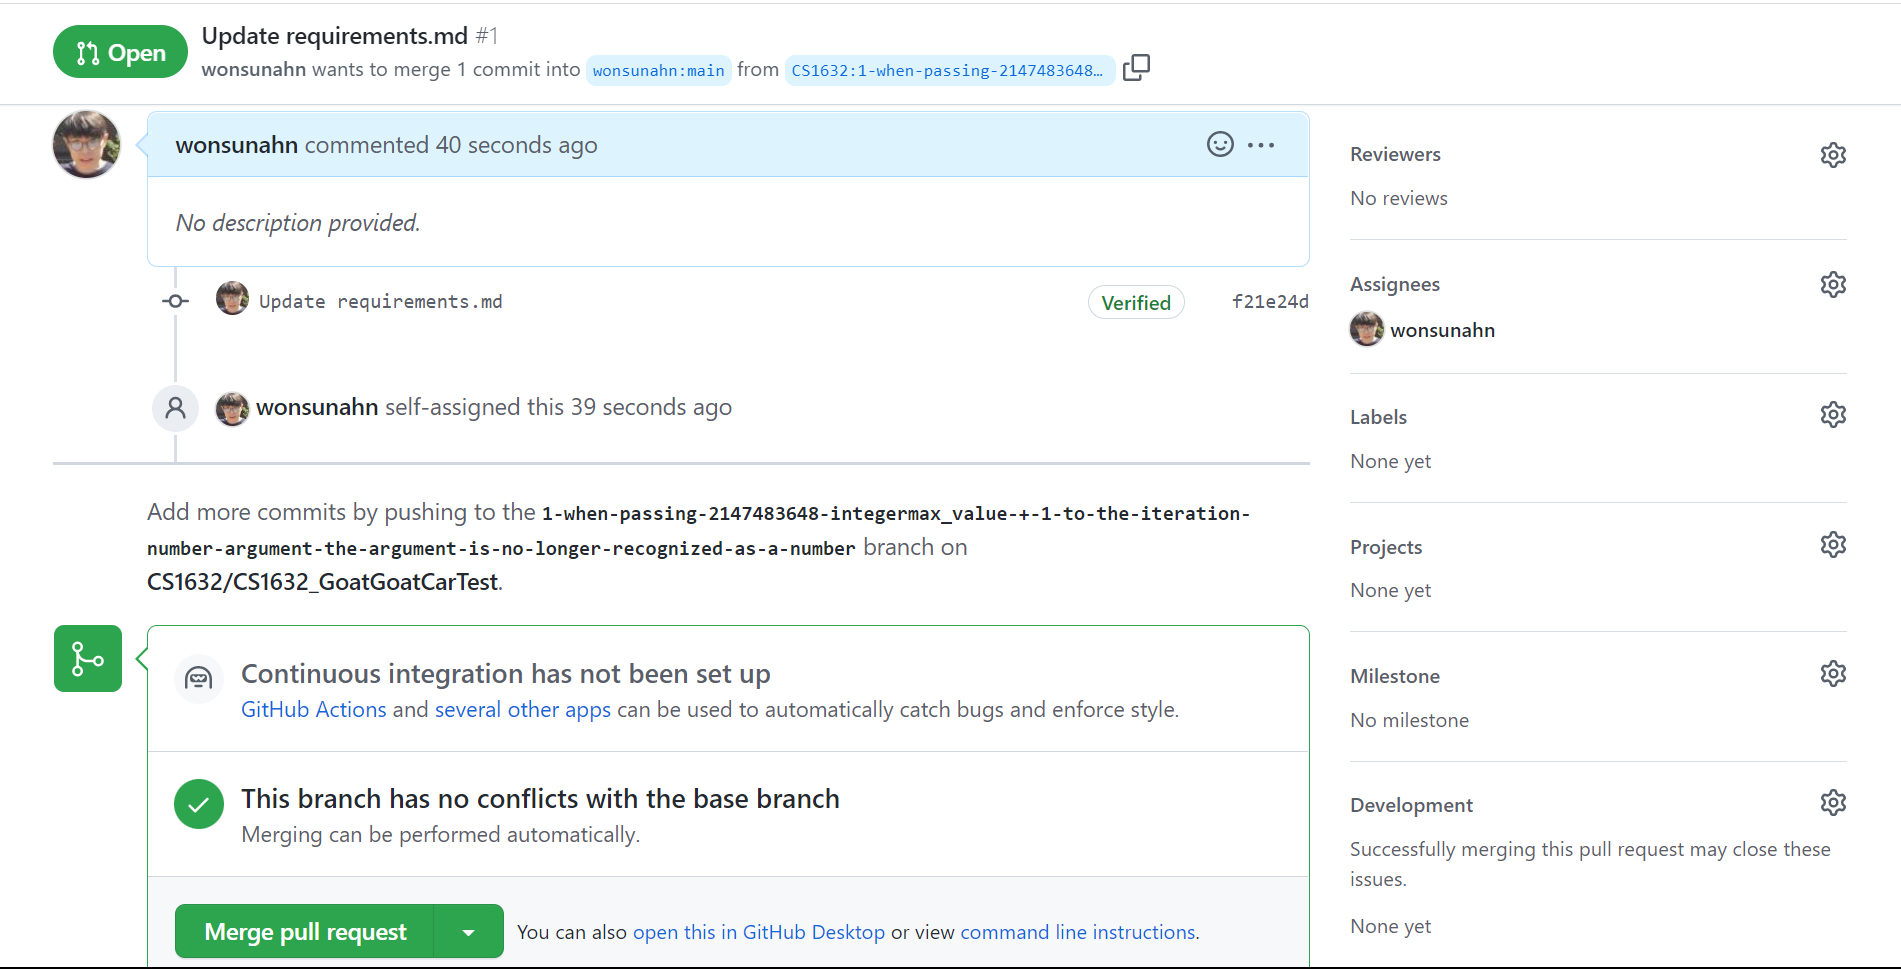
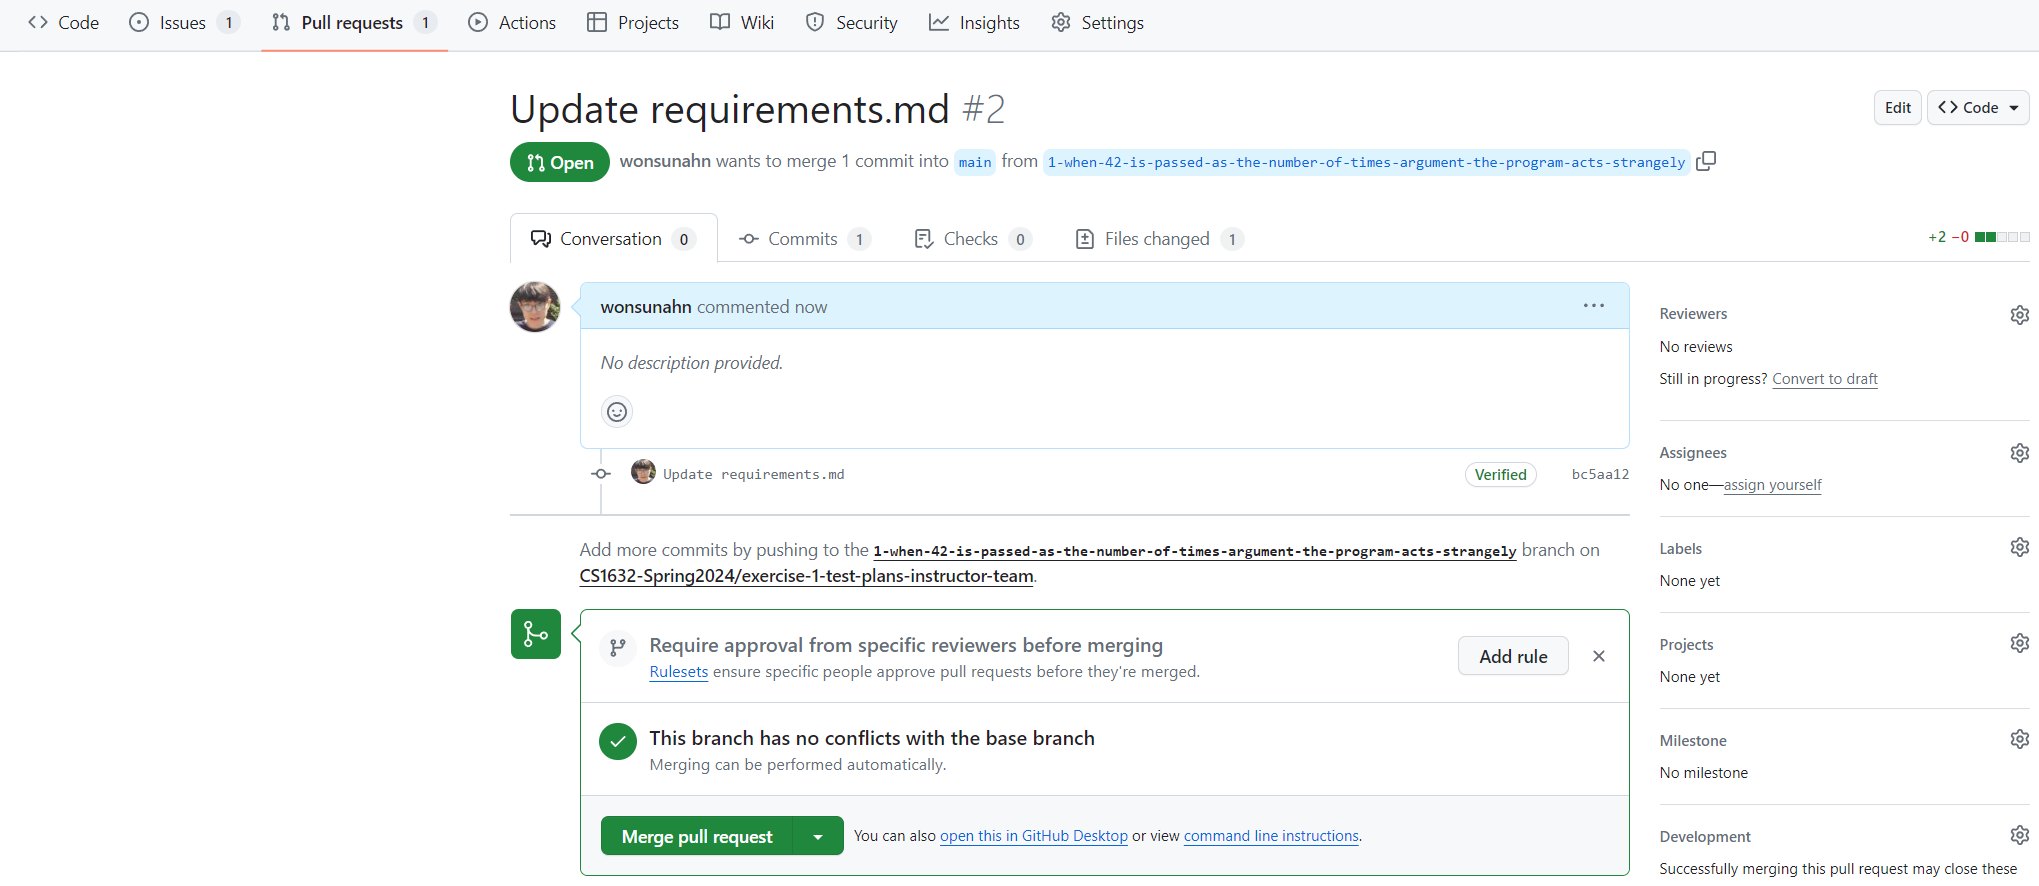
Updates to add pull requests

diff --git a/README.md b/README.md
@@ -173,6 +173,10 @@ no gaps in test coverage.  Please make sure of this.
 
 ## Reporting Defects
 
+Please find **at least three defects** and report them through the GitHub issues system.  
+
+### Components of a Defect Report
+
 This is the correct format for defects -
 
 ```
@@ -220,38 +224,97 @@ report, or 2) You may not have described the reproduction steps in enough
 detail (note that sometimes even timing of input is important), or 3) The
 program may be a nondeterministic program to begin with.
 
-For reporting defects, you are going to use the GitHub issue management system.
+### GitHub Bug Tracking System
+
+To get hands on experience in defect reporting, tracking, and resolution, you
+are going to use the GitHub issue management system.
 
 On your GitHub classroom repository, Click on the "Issues" tab on the top.
 Initially you should have 0 open issues.  Click on the "New issue" button on
 the top right.  Fill the comment box with the defect report properly formatted
 with the 6 items shown above.  For the title, use the content of the SUMMARY
-item.  When all is filled in, click on the "Submit new issue" button.  Now if
-you click on the "Issues" tab, you should see a new open issue:
+item.  When all is filled in, click on the "Submit new issue" button.  
 
-<img alt="Issues list" src=img/issues_list.png>
-
-Note that the issue has a "bug" tag and also has an assignee because I
-performed **triage** and determined that the issue was a bug and assigned it to
-myself.  If you open the issue, there is an option to add assignees and edit
-Labels as shown in the red box below:
+After the issue is submitted, perform **triage** and tag the issue as a "bug"
+and assign it to one of the group members, as shown below in the first red box:
 
 <img alt="Issues list" src=img/open_issue.png>
 
-Perform triage on your defect as I did by adding the bug label and assigning it
-to yourself.  
+Now if you click on the "Issues" tab, you should see the new open issue:
 
-Eventually, the assignee will come in and either close the issue (with some
-explanation), or will create a branch to write code to resolve the issue (the
-second red box in the above figure).  After the assignee is done, he/she will
-create a pull request to merge those changes into the main branch, after which
-the project manager can come in and confirm the merge after reviewing the
-changes.  The merge will automatically close the issue.  For now, we will leave
-the issues open.  We will talk more about merging changes when we talk about CI
-(Continuous Integration) towards the end of the semester.
+<img alt="Issues list" src=img/issues_list.png>
 
-Please find **at least three defects** and create open issues for them.  Yes,
-you can use the one I showed above as one of them.
+Now, it is time to resolve the issue.  Have the assignee for the issue open the
+issue by clicking on it, and then have her click the "Create a branch" link
+shown in the second red box above.  This will create a new **git branch** to work
+on the issue.  Once you are done creating the branch, you should see it appear
+on the issue page (see red box):
+
+<img alt="create branch" src=img/create_branch.png>
+
+Now click on the branch name (in this case,
+"1-when-42-is-passed-as-the-number-of-times...").  That would take you to the
+newly created branch as below:
+
+<img alt="open branch" src=img/open_branch.png>
+
+Make sure that the branch selector indicates the newly created issue branch,
+not the main branch, as seen in the red box above.  Now, we were doing black
+box testing, so we do not have access to the source code.  So, we are going to
+resolve this issue by sneakily adding a new requirement to the requirements
+specification, and then claim that this is a feature, not a bug.  Navigate to
+the requirements.md file and add the new requirement as shown below in the red
+box: 
+
+<img alt="edit requirement" src=img/edit_requirement.png>
+
+Go ahread and commit the change to the issue branch.  Now that we are done with
+our fix, we are going to create a **pull request**, which is a request to pull
+the changes in the issue branch into the main branch.  One or more people can
+review that request and make sure everything is kosher before pulling
+everything into the main branch, because updating the main branch comes with
+risks.  Create the pull request by clicking on the "Pull requests" tab and
+clicking on the "New pull request" button as showin in the red box below:
+
+<img alt="create pull request" src=img/create_pull_request.png>
+
+In the ensuing page, select the issue branch as the source branch as indicated
+in the red box below:
+
+<img alt="compare changes" src=img/compare_changes.png>
+
+You can review the changes that will be pulled into the main branch as a result
+of this pull request in green color.  If you are satisfied, go ahead and cluck
+on the "Create pull request" button.  If you follow through, you will see the
+new pull request created as seen below:
+
+<img alt="merge pull request" src=img/merge_pull_request.png>
+
+You can see that the issue branch has no merge conflicts with the main branch,
+and that you have the option to add one or more reviewers before merging.  If
+you had a CI (Continuous Integration) pipeline, then automated testing would
+typically be performed on the issue branch at this point, but that will come
+later in the semester. :)  for now, we are happy to merge the branch.  Click on
+the "Merge pull request" button to do so.  Go ahead and confirm the merge when
+prompted to do so.  You will see the pull request now successfully merged and
+closed as you see below:
+
+<img alt="merge pull request" src=img/merge_pull_request.png>
+
+Delete the branch by clicking on the "Delete branch" button since you no longer
+need the branch since it is already merged.  Closing the pull request will
+automatically close the issue associated with that pull request, so that when
+you click on the "Issues" tab, you will no longer see any open issues.  Now you
+need to click on the "Closed" issues tab indcated by the red box below to see
+the closed issue:
+
+<img alt="closed issue" src=img/closed_issue.png>
+
+Now, as you may have guessed, the above defect is a bogus defect.  Please find
+three real defects, open issues for them, and close them using the process
+above, by modifying the requirements to turn the bugs into features.  Of
+course, in a real world scenario, you would most likely modify the source code,
+not the requirements, but the process would be the same.
 
 ## Format
 
@@ -285,7 +348,7 @@ format -
 	EXECUTION STEPS:
 	POSTCONDITIONS:
 
-ON A NEW PAGE, copy and paste the link to your GitHub repository issues page with the 3 open issues.
+ON A NEW PAGE, copy and paste the link to your GitHub repository issues page with the 3 closed issues.
 
 ## Submission
 
